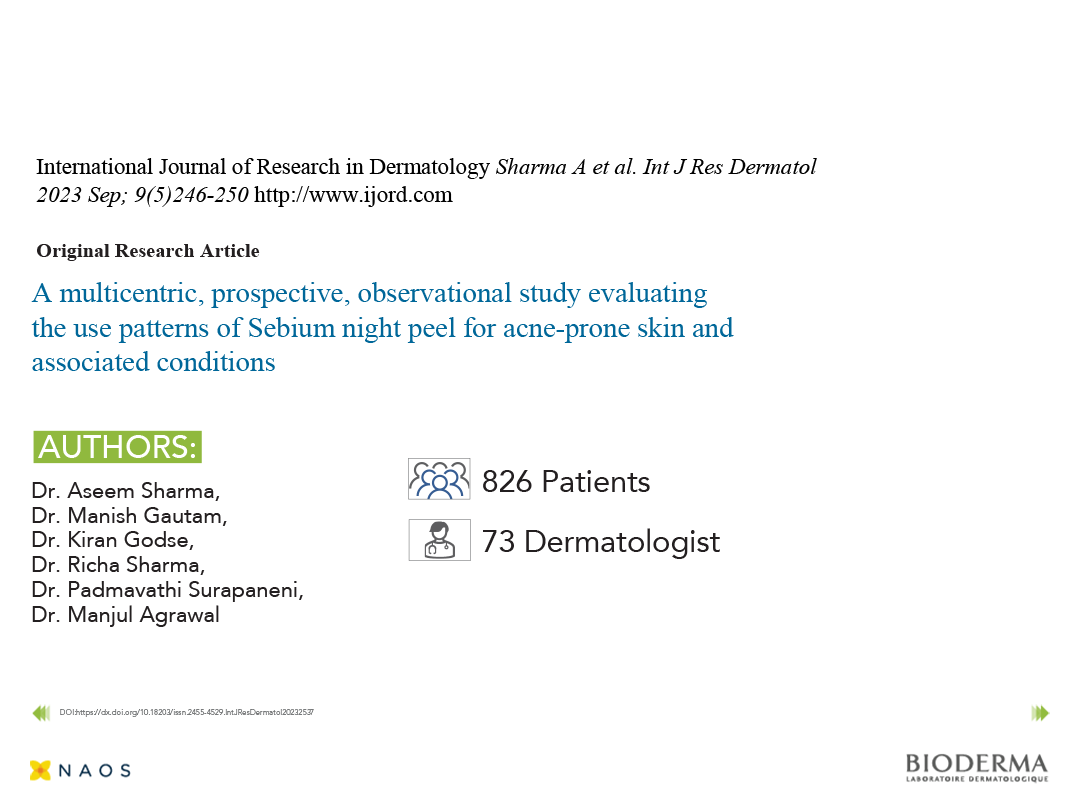
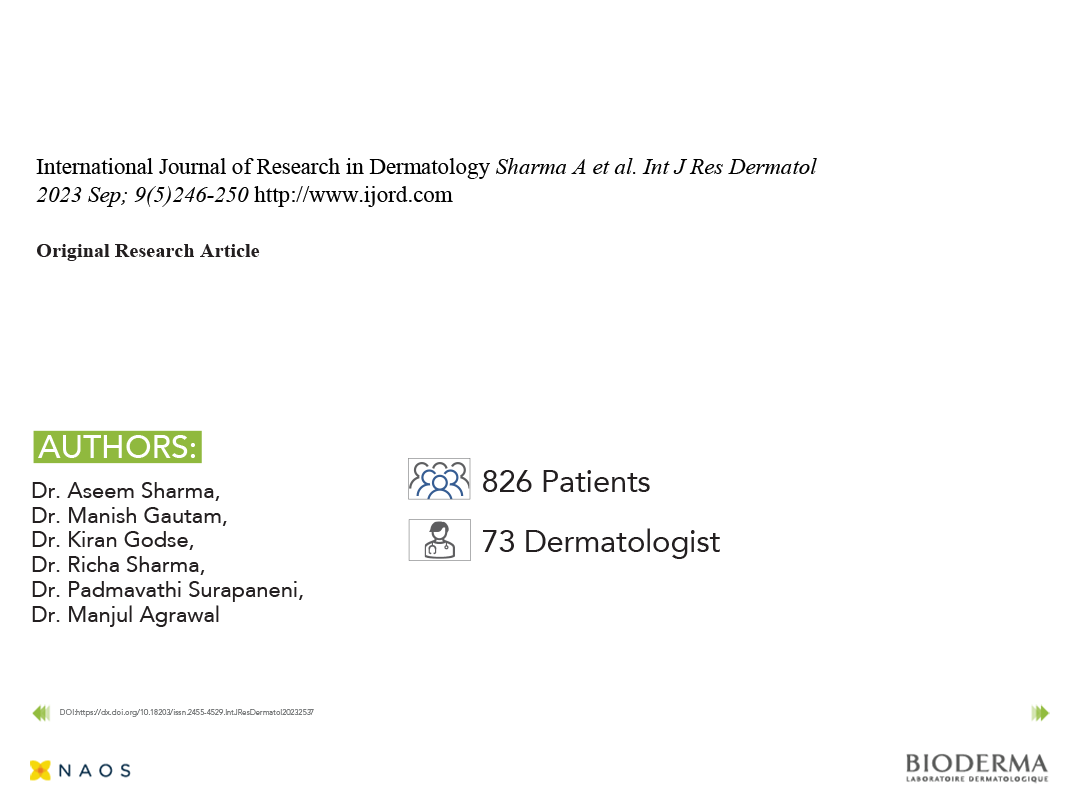
Night Peel

Changed region(s): [[0.0306, 0.3395, 0.6722, 0.463]]

diff --git a/sebium1/index.html b/sebium1/index.html
@@ -16,11 +16,6 @@
     <script type="text/javascript" charset="utf-8" src="index_edgePreload.js"></script> -->
     <script src="edge_includes/jquery-2.0.3.min.js"></script>
    <style>
-body {
-        animation: fadeInAnimation ease 2s;
-        animation-iteration-count: 1;
-        animation-fill-mode: forwards;
-    }
 @keyframes fadeInAnimation {
         0% {
             opacity: 0;
@@ -258,7 +253,7 @@ body {
 <body onload="load();" style="margin:0px;">
 <input type="hidden" name="" id="pagename" value="index1.html">
 <div id="Stage" class="EDGE-144335490" style="position: fixed;">
-    <link rel="stylesheet" type="text/css" href="images/slide1.css" media="screen"/><div class="s1"><img src="images/s1.png" width="1080" height="810" alt=""/></div><div class="s2"><img src="images/s2.png"/></div><div class="s3"><img src="images/s3.png"/></div>
+    <link rel="stylesheet" type="text/css" href="images/slide1.css" media="screen"/><div class="s1"><img src="images/s1.png" width="1080" height="810" alt=""/></div><div class="s2"><img src="images/s2.png"/></div><div class="s3"><img src="images/s3.png"/></div><div class="s4"><img src="images/s4.png"/></div>
 </div>
 <map id="map_ID" name="map">
     <!-- <area shape="poly" coords="64,773, 99,1156, 234,778, 202,1157" href="javascript:;" id="posology" alt="Posology" title="Posology" /> -->

diff --git a/sebium1/images/slide1.css b/sebium1/images/slide1.css
@@ -16,22 +16,47 @@
   top: 37px;
   width: 788px;
   height: 53px;
-	animation: slideInDown 0.5s;
-	animation-delay: 0s;
+	animation: slideInDownBig 0.5s;
+	animation-delay: 0.5s;
 	animation-fill-mode: both;
 	z-index: 2;
 }
 
 .s3 {
 	position: absolute;
+  left: 35px;
+  top: 282px;
+  width: 703px;
+  height: 89px;
+	animation: fadeInRight 0.5s;
+	animation-delay: 1.5s;
+	animation-fill-mode: both;
+	z-index: 5;
+}
+
+.s4 {
+	position: absolute;
   left: 793px;
   top: 243px;
   width: 264px;
   height: 310px;
 	animation: slideInRight 0.5s;
-	animation-delay: 1s;
+	animation-delay: 2.5s;
 	animation-fill-mode: both;
 	z-index: 5;
+}
+
+@keyframes slideInDownBig {
+  from {
+    -webkit-transform: translate3d(0, -200%, 0);
+    transform: translate3d(0, -200%, 0);
+    visibility: visible;
+  }
+
+  to {
+    -webkit-transform: translate3d(0, 0, 0);
+    transform: translate3d(0, 0, 0);
+  }
 }
 
 @keyframes flashLong {
